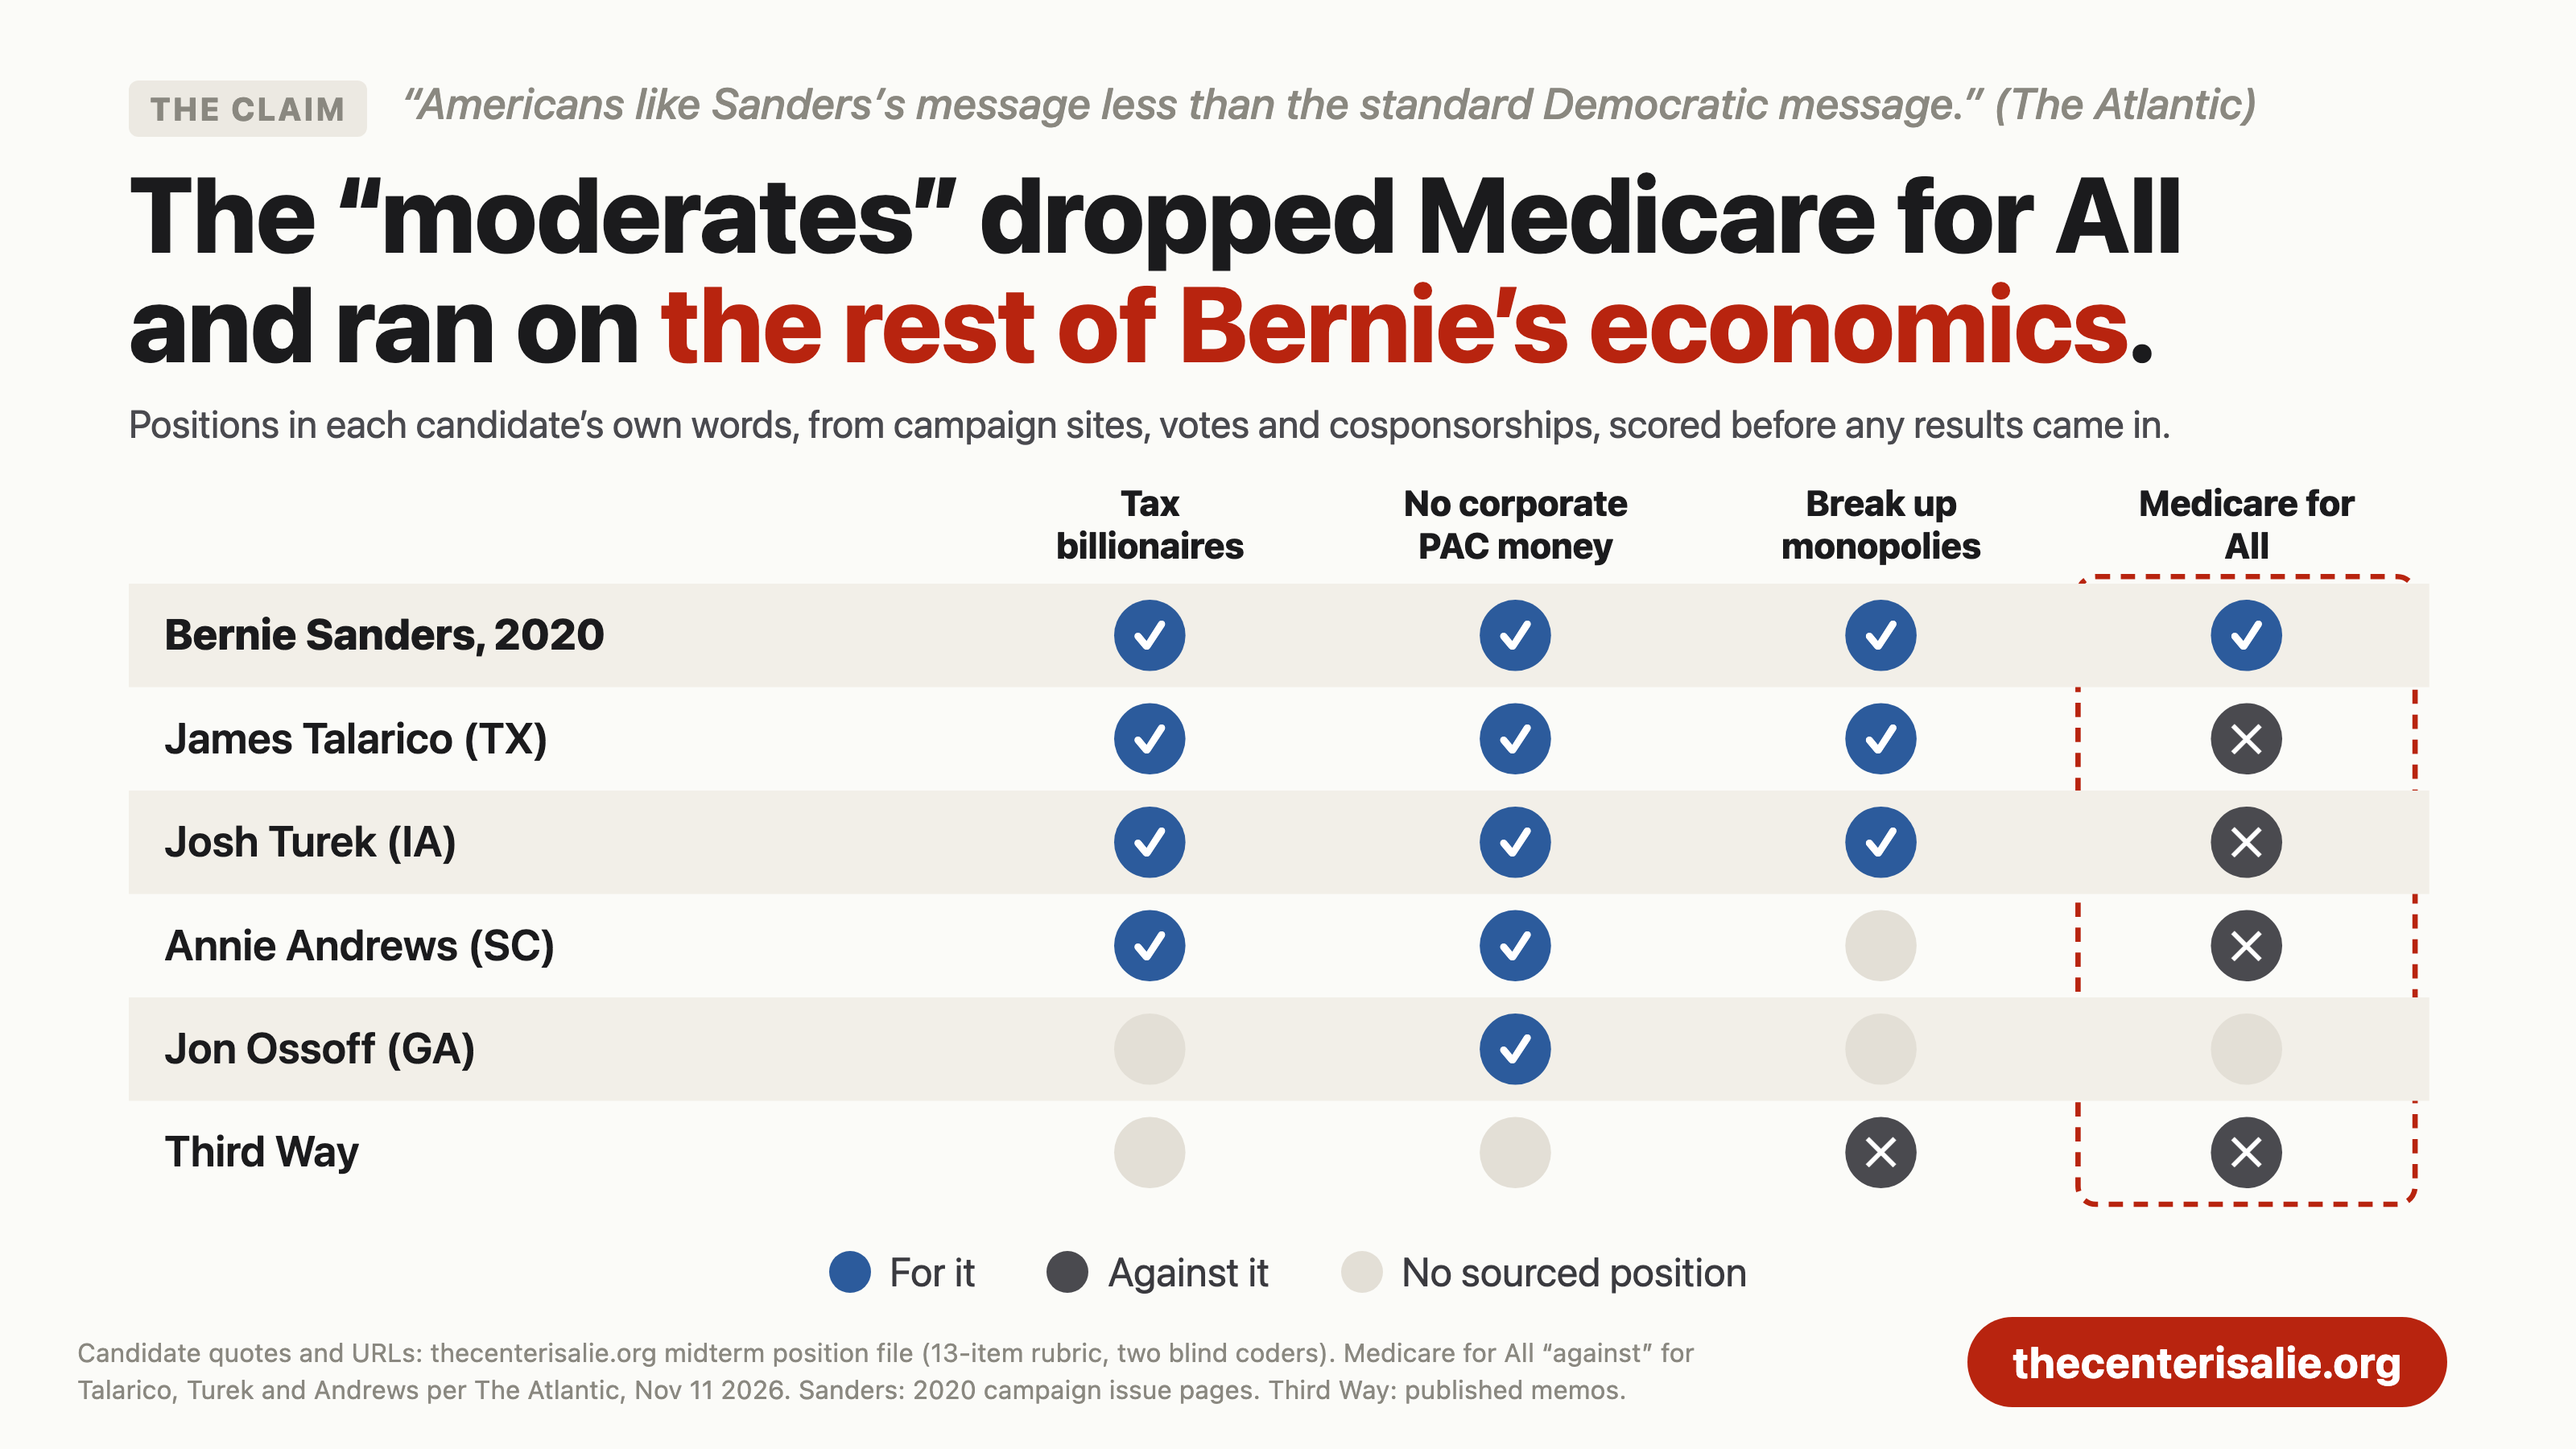
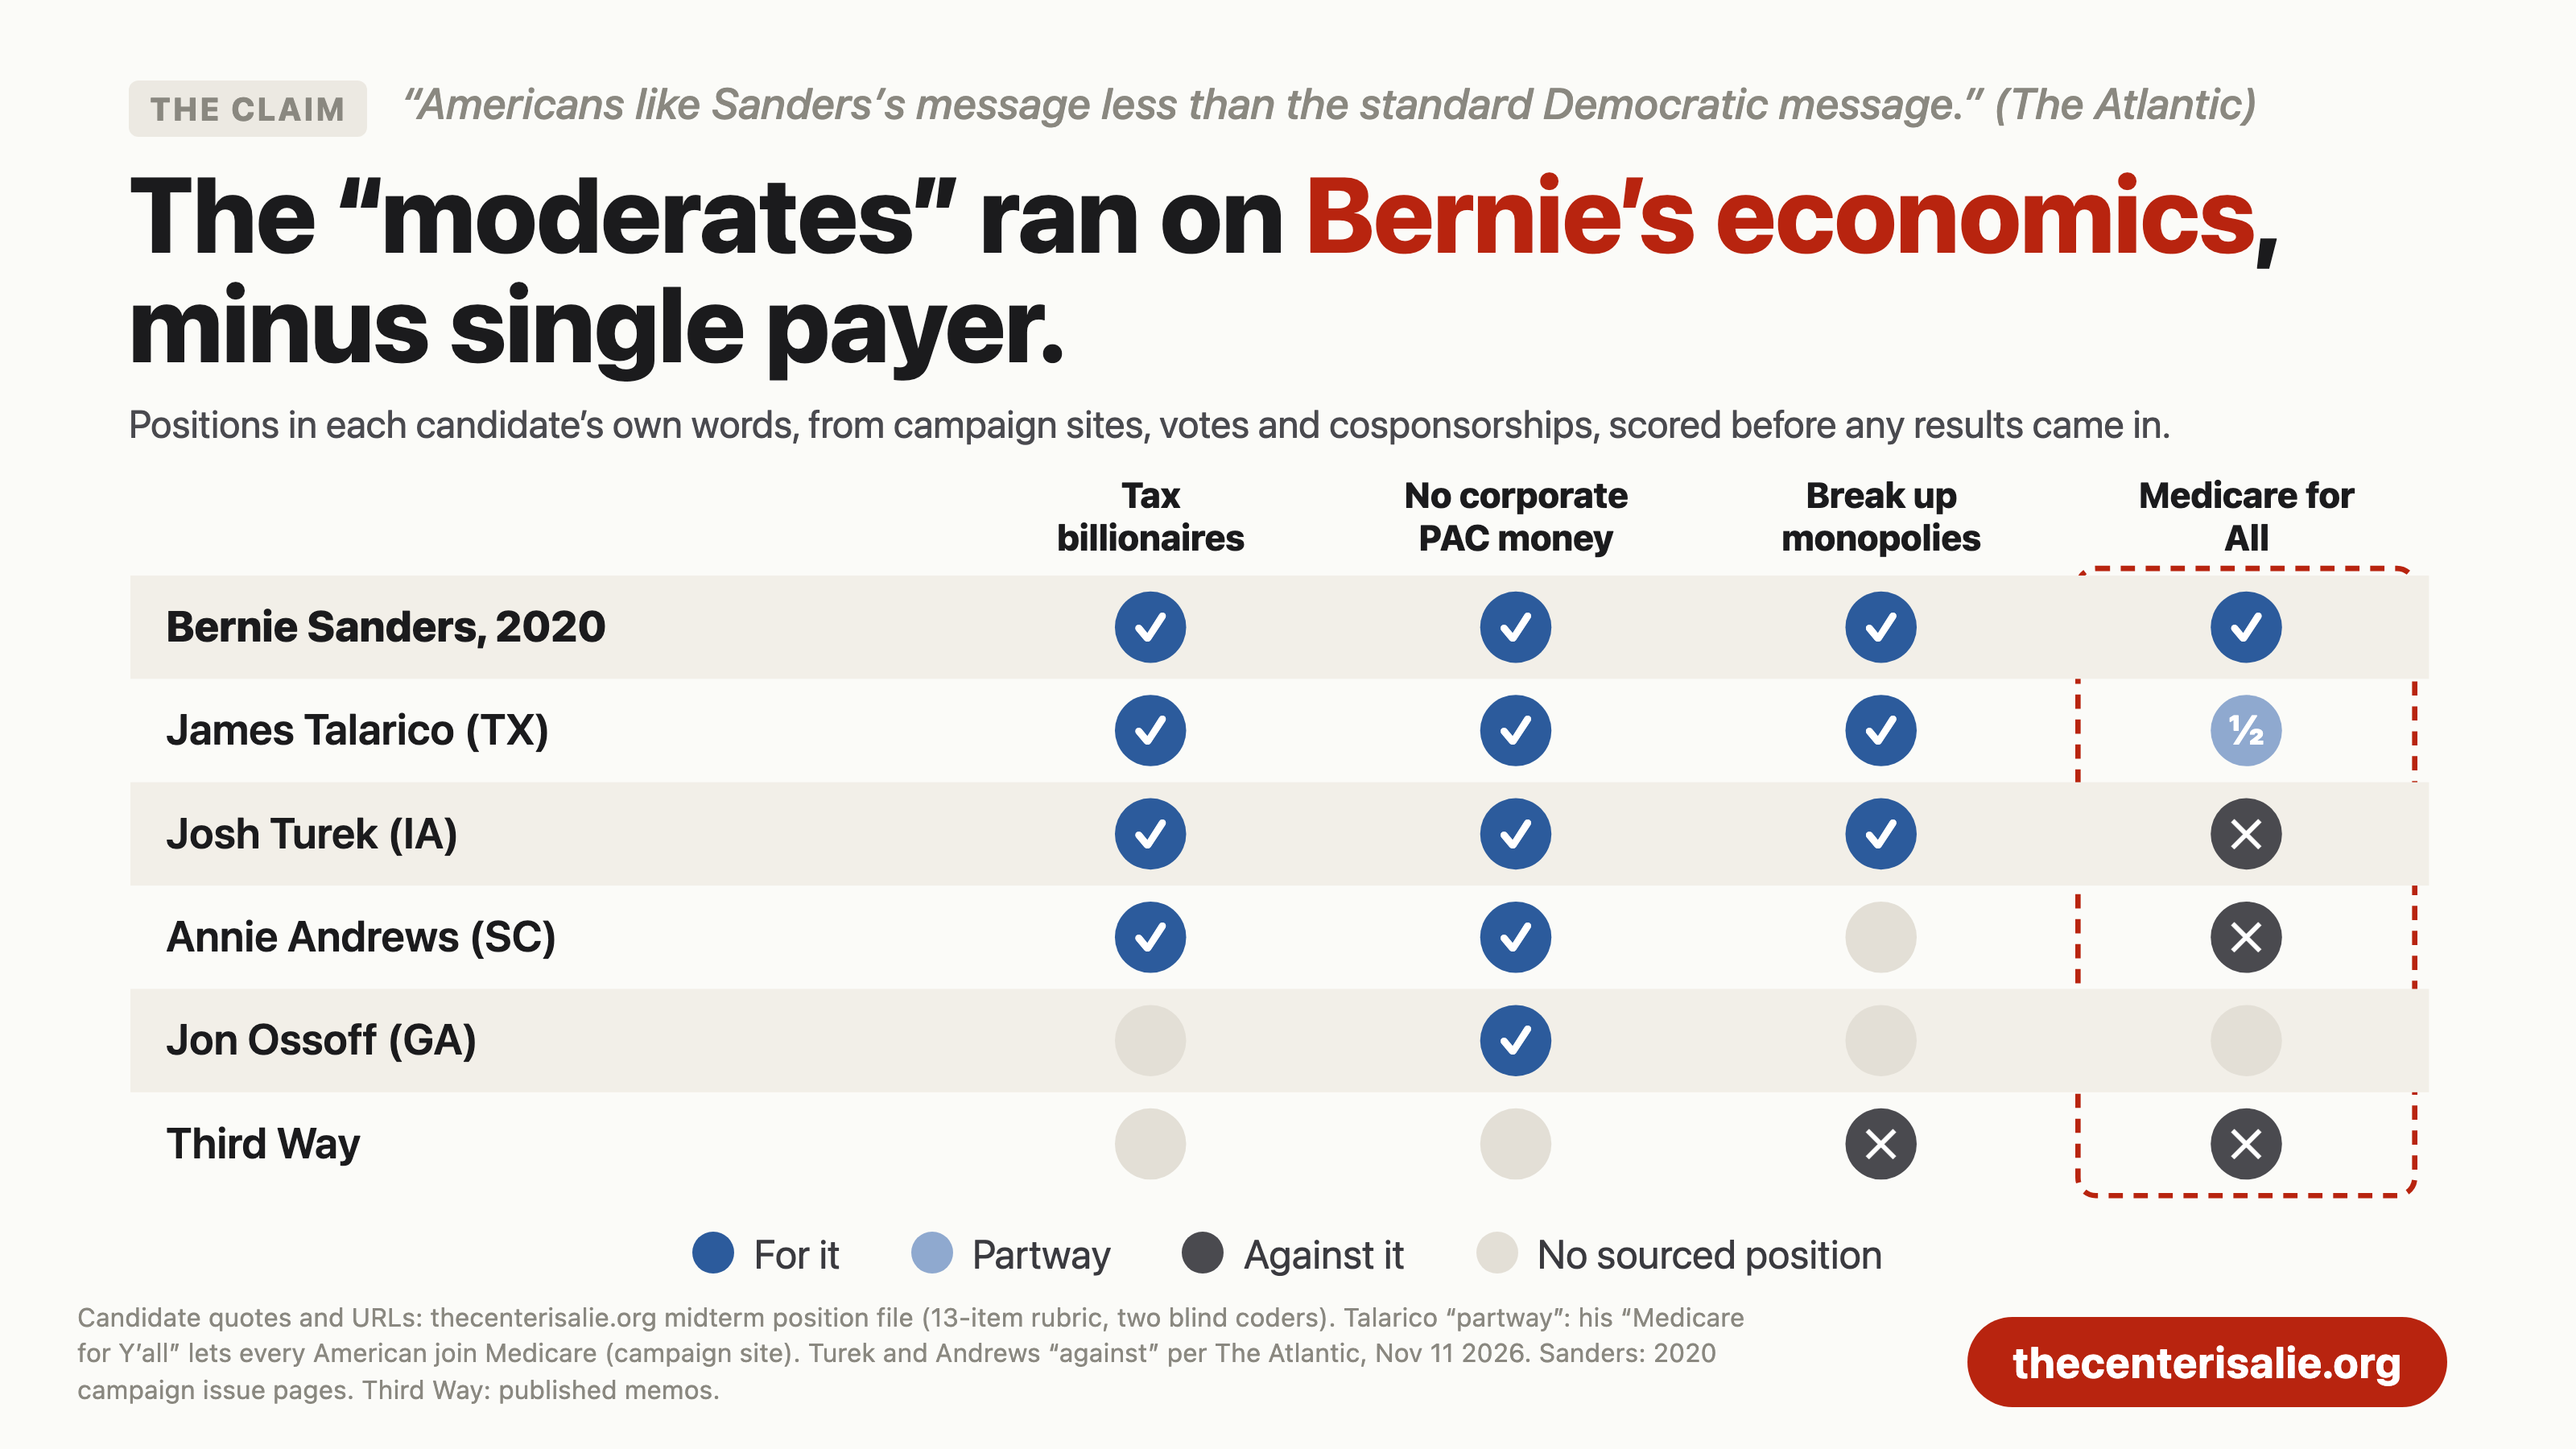
fix(og,docs): Talarico ran on a Medicare buy-in for every American; Chait's 'rejected Medicare for All' overstates it

diff --git a/web/og-cards/chart-chait-platform.html b/web/og-cards/chart-chait-platform.html
@@ -3,19 +3,20 @@
 <body>
   <div class="chartcard">
     <div class="cc-claim"><span class="tag">The claim</span> &ldquo;Americans like Sanders&rsquo;s message less than the standard Democratic message.&rdquo; (The Atlantic)</div>
-    <div class="cc-title">The &ldquo;moderates&rdquo; dropped Medicare for All and ran on <span class="hl">the rest of Bernie&rsquo;s economics</span>.</div>
+    <div class="cc-title">The &ldquo;moderates&rdquo; ran on <span class="hl">Bernie&rsquo;s economics</span>, minus single payer.</div>
     <div class="cc-sub">Positions in each candidate&rsquo;s own words, from campaign sites, votes and cosponsorships, scored before any results came in.</div>
 
     <div class="cc-chart"><svg id="c" viewBox="0 0 1300 430" role="img"
-      aria-label="Sanders 2020: tax billionaires yes, refuse corporate PAC money yes, break up monopolies yes, Medicare for All yes. Talarico: yes, yes, yes, no. Turek: yes, yes, yes, no. Andrews: yes, yes, no position found, no. Ossoff: no position found, yes, no position found, no position found. Third Way: no position, no position, opposed, opposed."></svg></div>
+      aria-label="Sanders 2020: tax billionaires yes, refuse corporate PAC money yes, break up monopolies yes, Medicare for All yes. Talarico: yes, yes, yes, partway, a Medicare buy-in open to every American. Turek: yes, yes, yes, no. Andrews: yes, yes, no position found, no. Ossoff: no position found, yes, no position found, no position found. Third Way: no position, no position, opposed, opposed."></svg></div>
 
     <div class="cc-legend">
       <span class="item"><span class="dot" style="background:#2c5b9c"></span>For it</span>
+      <span class="item"><span class="dot" style="background:#8fa9cf"></span>Partway</span>
       <span class="item"><span class="dot" style="background:#4a4a4f"></span>Against it</span>
       <span class="item"><span class="dot" style="background:#e3dfd6"></span>No sourced position</span>
     </div>
     <div class="cc-foot">
-      <div class="cc-source">Candidate quotes and URLs: thecenterisalie.org midterm position file (13-item rubric, two blind coders). Medicare for All &ldquo;against&rdquo; for Talarico, Turek and Andrews per The Atlantic, Nov 11 2026. Sanders: 2020 campaign issue pages. Third Way: published memos.</div>
+      <div class="cc-source">Candidate quotes and URLs: thecenterisalie.org midterm position file (13-item rubric, two blind coders). Talarico &ldquo;partway&rdquo;: his &ldquo;Medicare for Y&rsquo;all&rdquo; lets every American join Medicare (campaign site). Turek and Andrews &ldquo;against&rdquo; per The Atlantic, Nov 11 2026. Sanders: 2020 campaign issue pages. Third Way: published memos.</div>
       <div class="cc-btn">thecenterisalie.org</div>
     </div>
   </div>
@@ -29,7 +30,7 @@
     // 1 for, -1 against, 0 none
     const rows = [
       ['Bernie Sanders, 2020', [1, 1, 1, 1], true],
-      ['James Talarico (TX)', [1, 1, 1, -1]],
+      ['James Talarico (TX)', [1, 1, 1, 0.5]],
       ['Josh Turek (IA)', [1, 1, 1, -1]],
       ['Annie Andrews (SC)', [1, 1, 0, -1]],
       ['Jon Ossoff (GA)', [0, 1, 0, 0]],
@@ -50,9 +51,9 @@
       txt({ x: lx, y: y + rh / 2 + 8, fill: '#1b1b1d', 'font-size': 24, 'font-weight': i === 0 ? 800 : 600 }, n);
       v.forEach((s, j) => {
         const cx = cx0 + j * cw + cw / 2, cy = y + rh / 2;
-        const fill = s === 1 ? '#2c5b9c' : s === -1 ? '#4a4a4f' : '#e3dfd6';
+        const fill = s === 1 ? '#2c5b9c' : s === 0.5 ? '#8fa9cf' : s === -1 ? '#4a4a4f' : '#e3dfd6';
         el('circle', { cx, cy, r: 20, fill });
-        const mark = s === 1 ? '✓' : s === -1 ? '✕' : '';
+        const mark = s === 1 ? '✓' : s === 0.5 ? '½' : s === -1 ? '✕' : '';
         if (mark) txt({ x: cx, y: cy + 8, 'text-anchor': 'middle', fill: '#fff', 'font-size': 23, 'font-weight': 800 }, mark);
       });
     });

diff --git a/docs/analysis/2026-chait-yglesias-substack.md b/docs/analysis/2026-chait-yglesias-substack.md
@@ -38,14 +38,14 @@ Andrews beat South Carolina's governor nominee by 9.0 points. Turek trailed Iowa
 
 Here is the part that both Chait and Yglesias work hardest to avoid. Before a single result came in, we scored every Senate nominee on 13 progressive positions, using their own words, votes, and cosponsorships.[8] On economics, the candidates being crowned as moderates took the progressive side nearly every time we could source a position:
 
-- James Talarico: "Make billionaires pay their fair share in taxes"; no corporate PAC money "since my very first race"; universal pre-K; antitrust legislation to "Break up Big Medicine."
+- James Talarico: "Make billionaires pay their fair share in taxes"; no corporate PAC money "since my very first race"; universal pre-K; antitrust legislation to "Break up Big Medicine"; and "Medicare for Y'all," which would "allow every American to join Medicare."
 - Josh Turek: "close loopholes for billionaires and big corporations"; no corporate PAC money; "Crack down on monopolies in agribusiness and meatpacking."
 - Annie Andrews: "End tax breaks for the ultra-wealthy and corporate polluters"; no corporate PAC money.
 - Jon Ossoff, whom Chait names as a model mainstream winner: no corporate PAC or lobbyist money.
 
 ![What the "moderates" actually ran on](../../web/public/og/charts/chait-platform.png)
 
-They dropped Medicare for All. I'll grant Chait that one, and it's real. But they kept the billionaire tax, the refusal of corporate money, and the antitrust fight, which is most of what Bernie Sanders ran on in 2020, when his platform called for a tax on extreme wealth and for breaking up "corrupt corporate mergers and monopolies."[9] Third Way, the think tank that spent the cycle telling Democrats to run to the center, publishes positions on the opposite side of 9 of the 13 items from Talarico's, and Talarico posted the biggest Senate gain of the year.[10]
+Chait says Talarico "rejected Medicare for All," and that overstates it. Talarico told the Texas Tribune that "universal health care is a human right" and ran on "Medicare for Y'all," a plan to let every American join Medicare, which stops short of single payer.[20] He closed his victory speech calling for "universal health care."[21] Turek and Andrews, by Chait's account, did reject Medicare for All, and I'll grant him that. But all of them kept the billionaire tax, the refusal of corporate money, and the antitrust fight, which is most of what Bernie Sanders ran on in 2020, when his platform called for a tax on extreme wealth and for breaking up "corrupt corporate mergers and monopolies."[9] Third Way, the think tank that spent the cycle telling Democrats to run to the center, publishes positions on the opposite side of 9 of the 13 items from Talarico's, and Talarico posted the biggest Senate gain of the year.[10]
 
 Yglesias saw this coming and has an answer ready. On November 10 he agreed it was "factually accurate" that many winning Democrats "say things about the political economy of the United States that sound like things Bernie Sanders might say," but argued that rigged-system rhetoric "is just how Democrats talk," going back to Bill Clinton and to Al Gore's "the people, not the powerful."[3] He's right that the language predates Sanders. He leaves out what the centrists said about it the last time it lost. After Gore's defeat, Bill Clinton's pollster Mark Penn wrote that "Al Gore used an old-style populism that limited his appeal rather than expanded it" and that "Gore sounded divisive" when he pitted the people against the powerful. Will Marshall of the Progressive Policy Institute called it "a hackneyed populism."[11]
 
@@ -104,7 +104,7 @@ Strip away the raw averages, the Harris baseline that ignores each state's own b
 5. CNN 2026 House counts (pulled 2026-11-05) against Harris 2024 by district; `data/derived/midterm2026/factors_wave.csv`.
 6. CNN 2026 Senate and governor results; Senate D margin minus governor D margin, same state; `data/derived/midterm2026/rebuttal_senate_vs_gov.csv`. States without a 2026 governor race (including North Carolina) are absent. Alaska (74% counted) is omitted from the chart.
 7. Aaron Blake, "Midterm returns show bad news for progressive Democrats," CNN, 2026-11-06, with House group averages from G. Elliott Morris (DSA n 7).
-8. `data/derived/midterm2026/rebuttal_senate_positions.csv` (13-item rubric, two blind coders, 88% cell agreement, source URLs per quote). Medicare for All positions for Talarico, Turek and Andrews as reported in note 1.
+8. `data/derived/midterm2026/rebuttal_senate_positions.csv` (13-item rubric, two blind coders, 88% cell agreement, source URLs per quote). Medicare for All positions for Turek and Andrews as reported in note 1; Talarico's from note 20.
 9. Sanders 2020 campaign, "Tax on Extreme Wealth" and "Corporate Accountability and Democracy," berniesanders.com.
 10. `data/derived/midterm2026/coding_c_talarico_vs_thirdway.csv`; Third Way positions from its published memos.
 11. Mark J. Penn, "Lessons of 2000," and Will Marshall, "Dems: Round Two," in "The Democrats' Next Step," The American Prospect, 2001-12-19.
@@ -116,3 +116,5 @@ Strip away the raw averages, the Harris baseline that ignores each state's own b
 17. Aidan Davis and Jon Whiten, "Voters Pass Ballot Measures to Raise and Protect Revenue, Tax the Rich," ITEP, 2026-11-05. Results described there as preliminary.
 18. `data/derived/midterm2026/rebuttal_competitive.csv`: House races with Harris margin under 10, HC1 SEs. Progressive-backed −1.4 (95% CI −4.8 to +2.1, n 17); moderate-backed +1.5 (−1.0 to +4.1, n 66).
 19. `data/derived/midterm2026/emphasis/frame_models.csv`, prediction F1, n 109: about −0.3 points per 10 share points of villain framing.
+20. "On the issues: A Q&A with the Texas Democrats running for U.S. Senate," Texas Tribune, 2026-02-04 (Talarico's answer); jamestalarico.com/issue/health-care ("Allow every American, regardless of their age, to join Medicare"). A Lone Star Left post (Michelle H. Davis, 2025-12-28) reports his campaign said he "would vote in favor of Medicare for All"; that is secondhand and not used in the text.
+21. Kate Aronoff, "Leftists Weren't the Only Ones Who Moderated in the Midterms," The New Republic, 2026-11-10.
